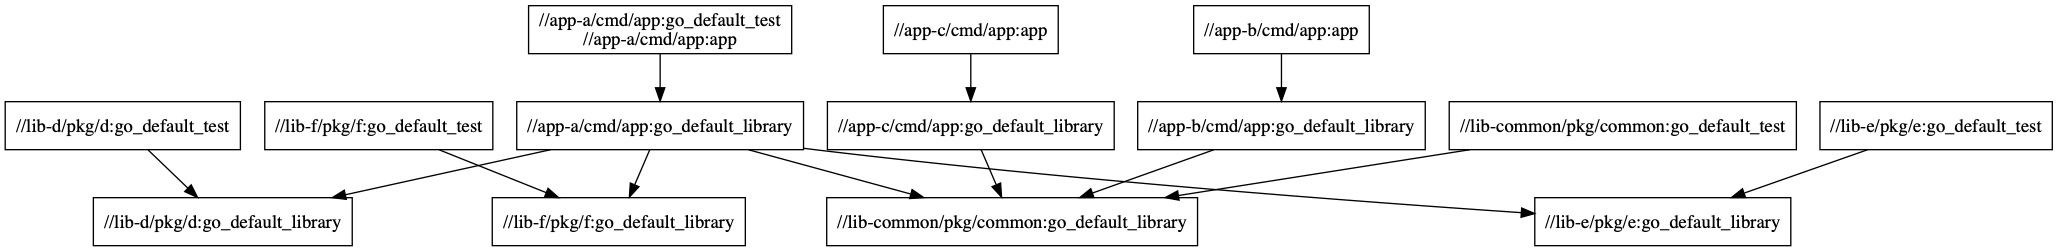
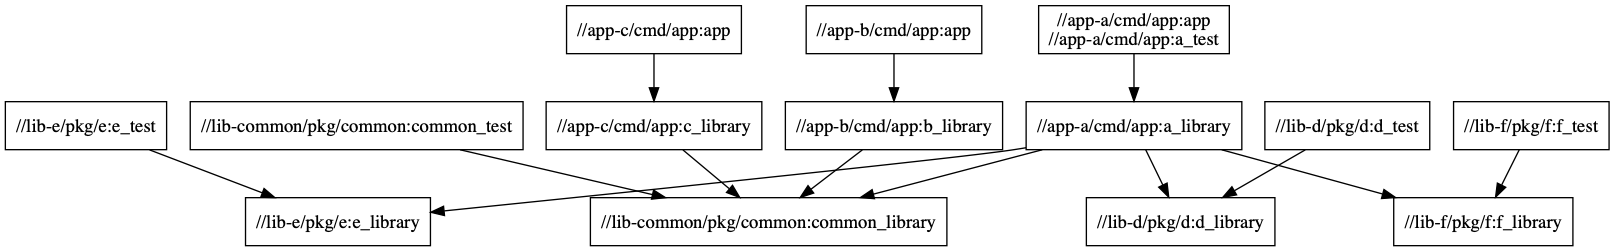
Prettier names and WIP more README

diff --git a/README.md b/README.md
@@ -18,3 +18,42 @@ https://github.com/tmc/rules\_helm
 
 https://jml.io/2015/07/bazel-correct-reproducible-fast-builds.html
 https://www.braintreepayments.com/blog/migrating-from-gradle-to-bazel/
+
+## Pretty things
+
+```
+# bazel test '...'
+
+INFO: Analyzed 15 targets (10 packages loaded, 117 targets configured).
+INFO: Found 10 targets and 5 test targets...
+INFO: Elapsed time: 2.218s, Critical Path: 0.36s
+INFO: 10 processes: 10 darwin-sandbox.
+INFO: Build completed successfully, 14 total actions
+//app-a/cmd/app:go_default_test                                          PASSED in 0.1s
+//lib-common/pkg/common:go_default_test                                  PASSED in 0.2s
+//lib-d/pkg/d:go_default_test                                            PASSED in 0.1s
+//lib-e/pkg/e:go_default_test                                            PASSED in 0.2s
+//lib-f/pkg/f:go_default_test                                            PASSED in 0.1s
+
+Executed 5 out of 5 tests: 5 tests pass.
+There were tests whose specified size is too big. Use the --test_verbose_timeout_warnings command line option to see wINFO: Build completed successfully, 14 total actions
+```
+
+After editing app:
+
+```
+# bazel test '...'
+INFO: Analyzed 15 targets (1 packages loaded, 5 targets configured).
+INFO: Found 10 targets and 5 test targets...
+INFO: Elapsed time: 1.632s, Critical Path: 1.39s
+INFO: 6 processes: 6 darwin-sandbox.
+INFO: Build completed successfully, 7 total actions
+//lib-common/pkg/common:go_default_test                         (cached) PASSED in 0.2s
+//lib-d/pkg/d:go_default_test                                   (cached) PASSED in 0.1s
+//lib-e/pkg/e:go_default_test                                   (cached) PASSED in 0.2s
+//lib-f/pkg/f:go_default_test                                   (cached) PASSED in 0.1s
+//app-a/cmd/app:a_test                                                   PASSED in 0.5s
+
+Executed 1 out of 5 tests: 5 tests pass.
+There were tests whose specified size is too big. Use the --test_verbose_timeout_warnings command line option to see wINFO: Build completed successfully, 7 total actions
+```
